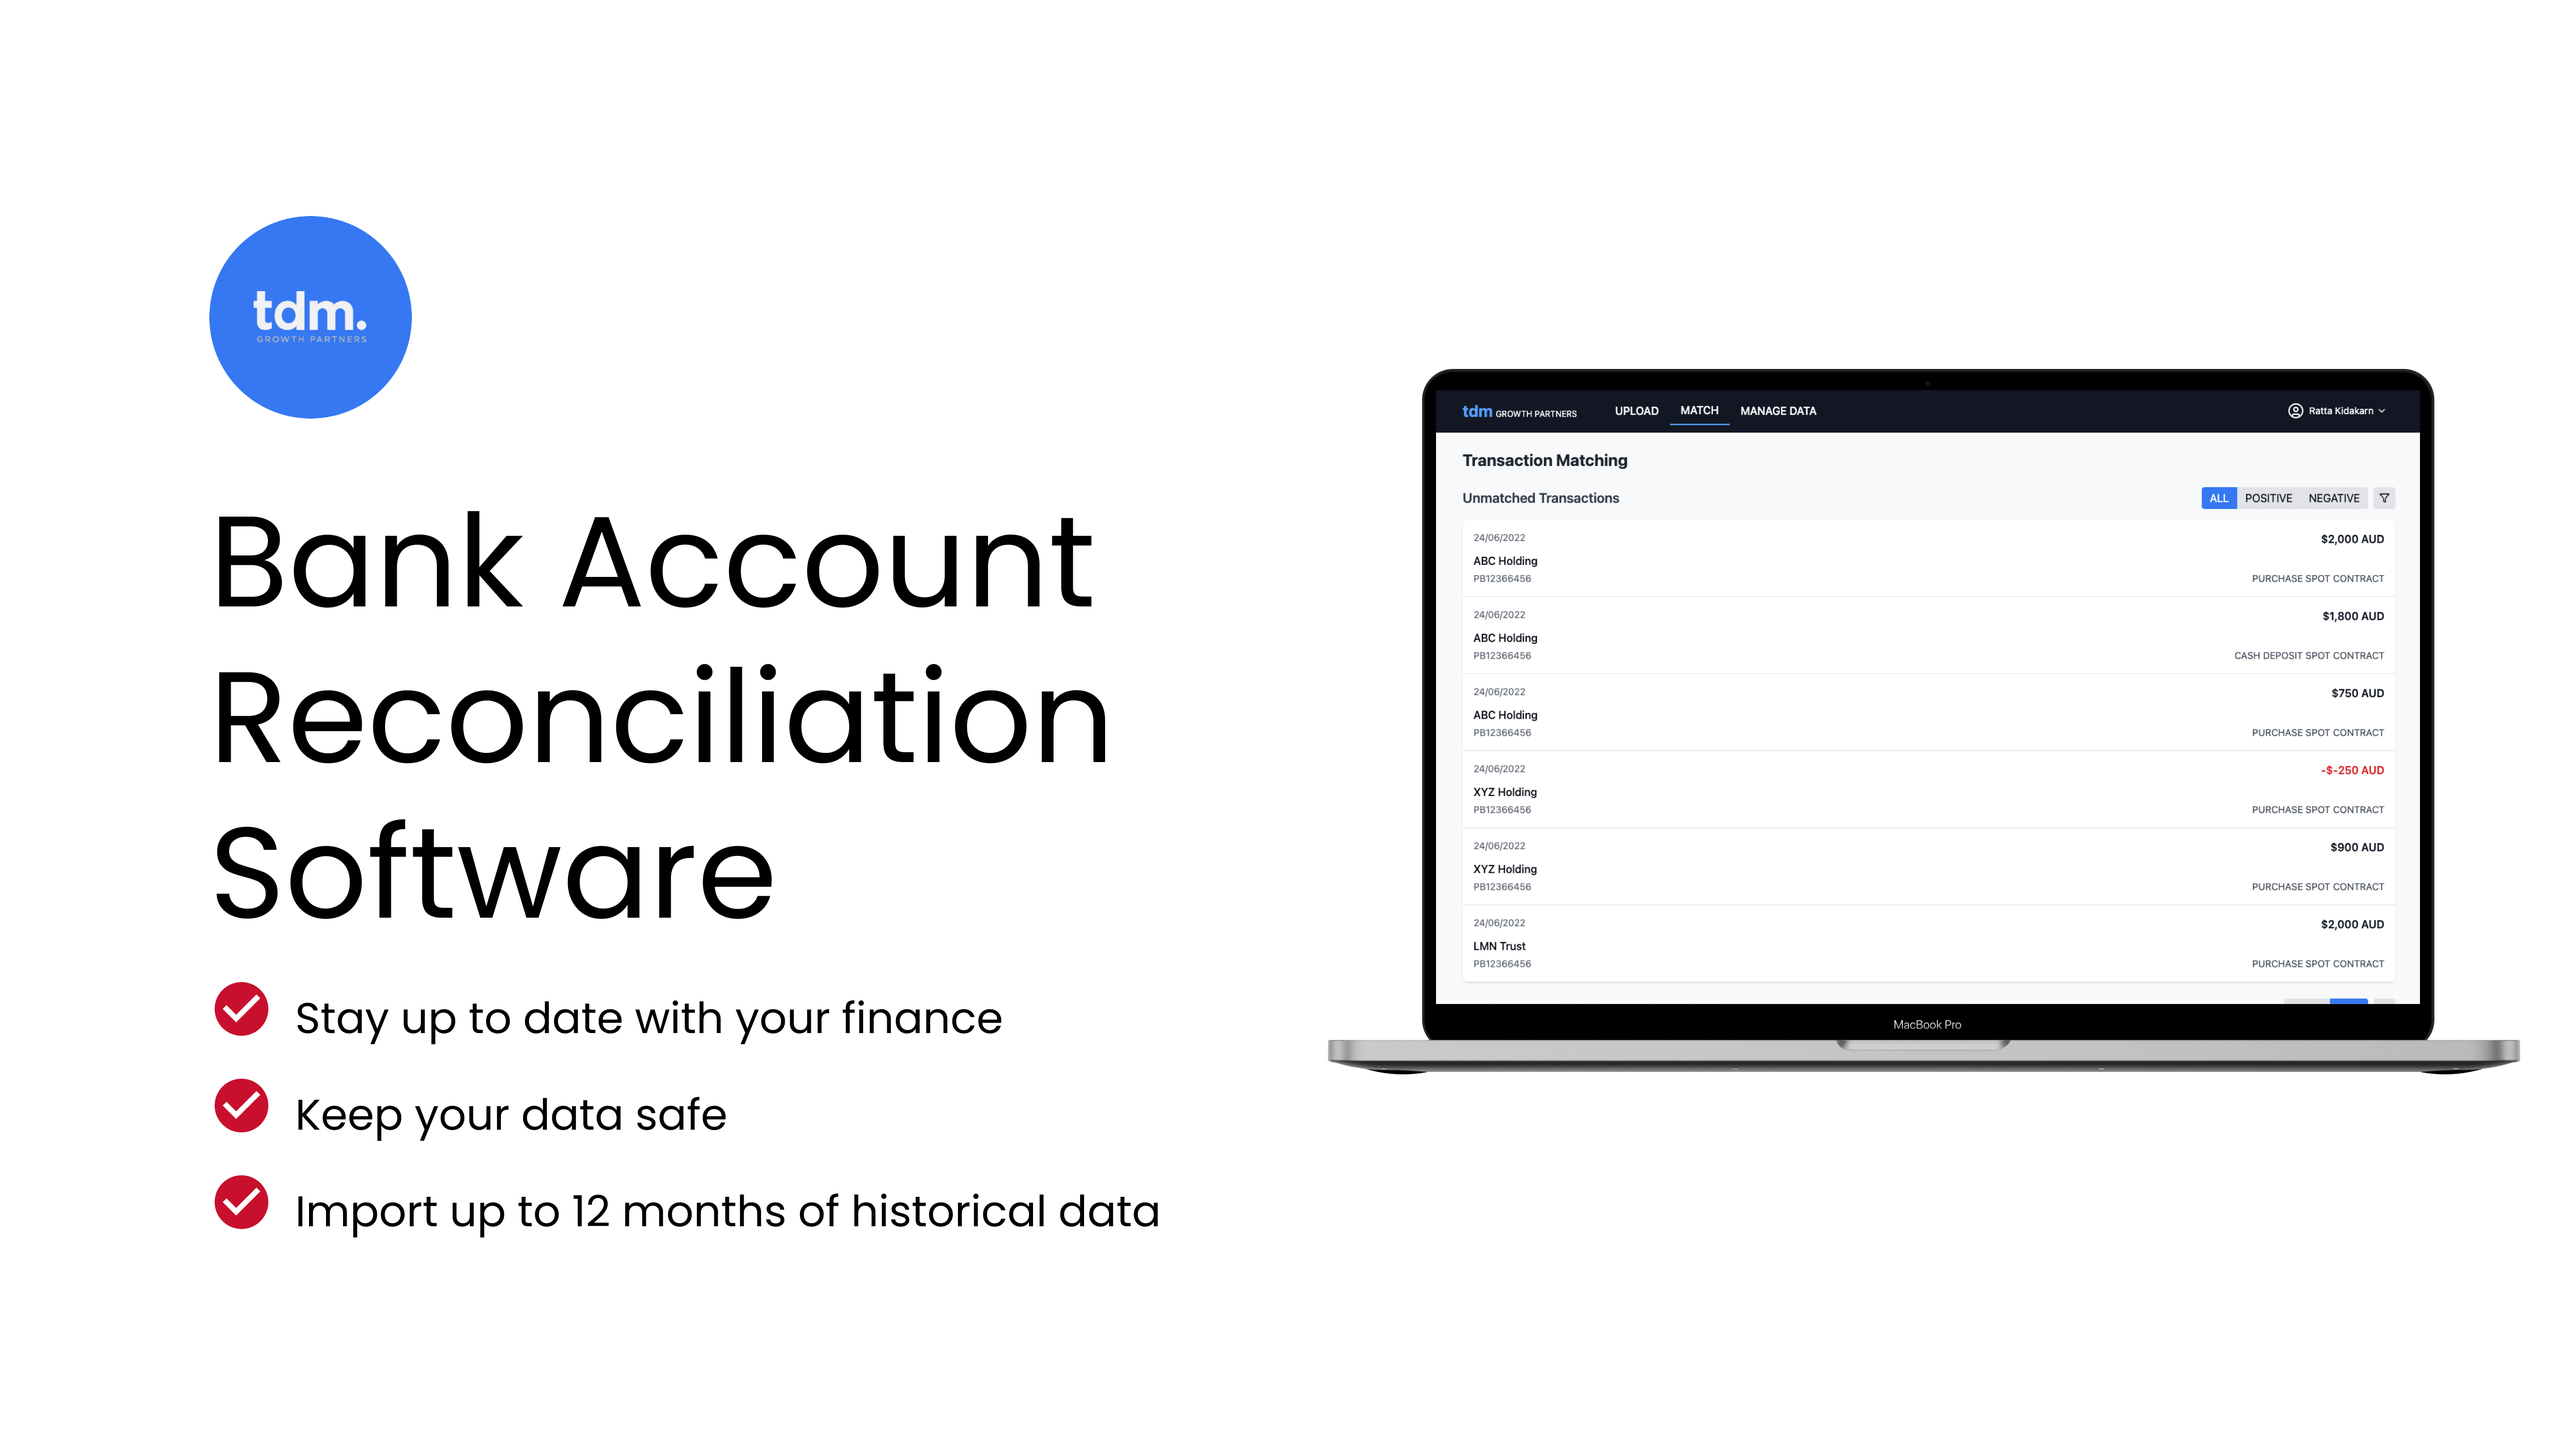
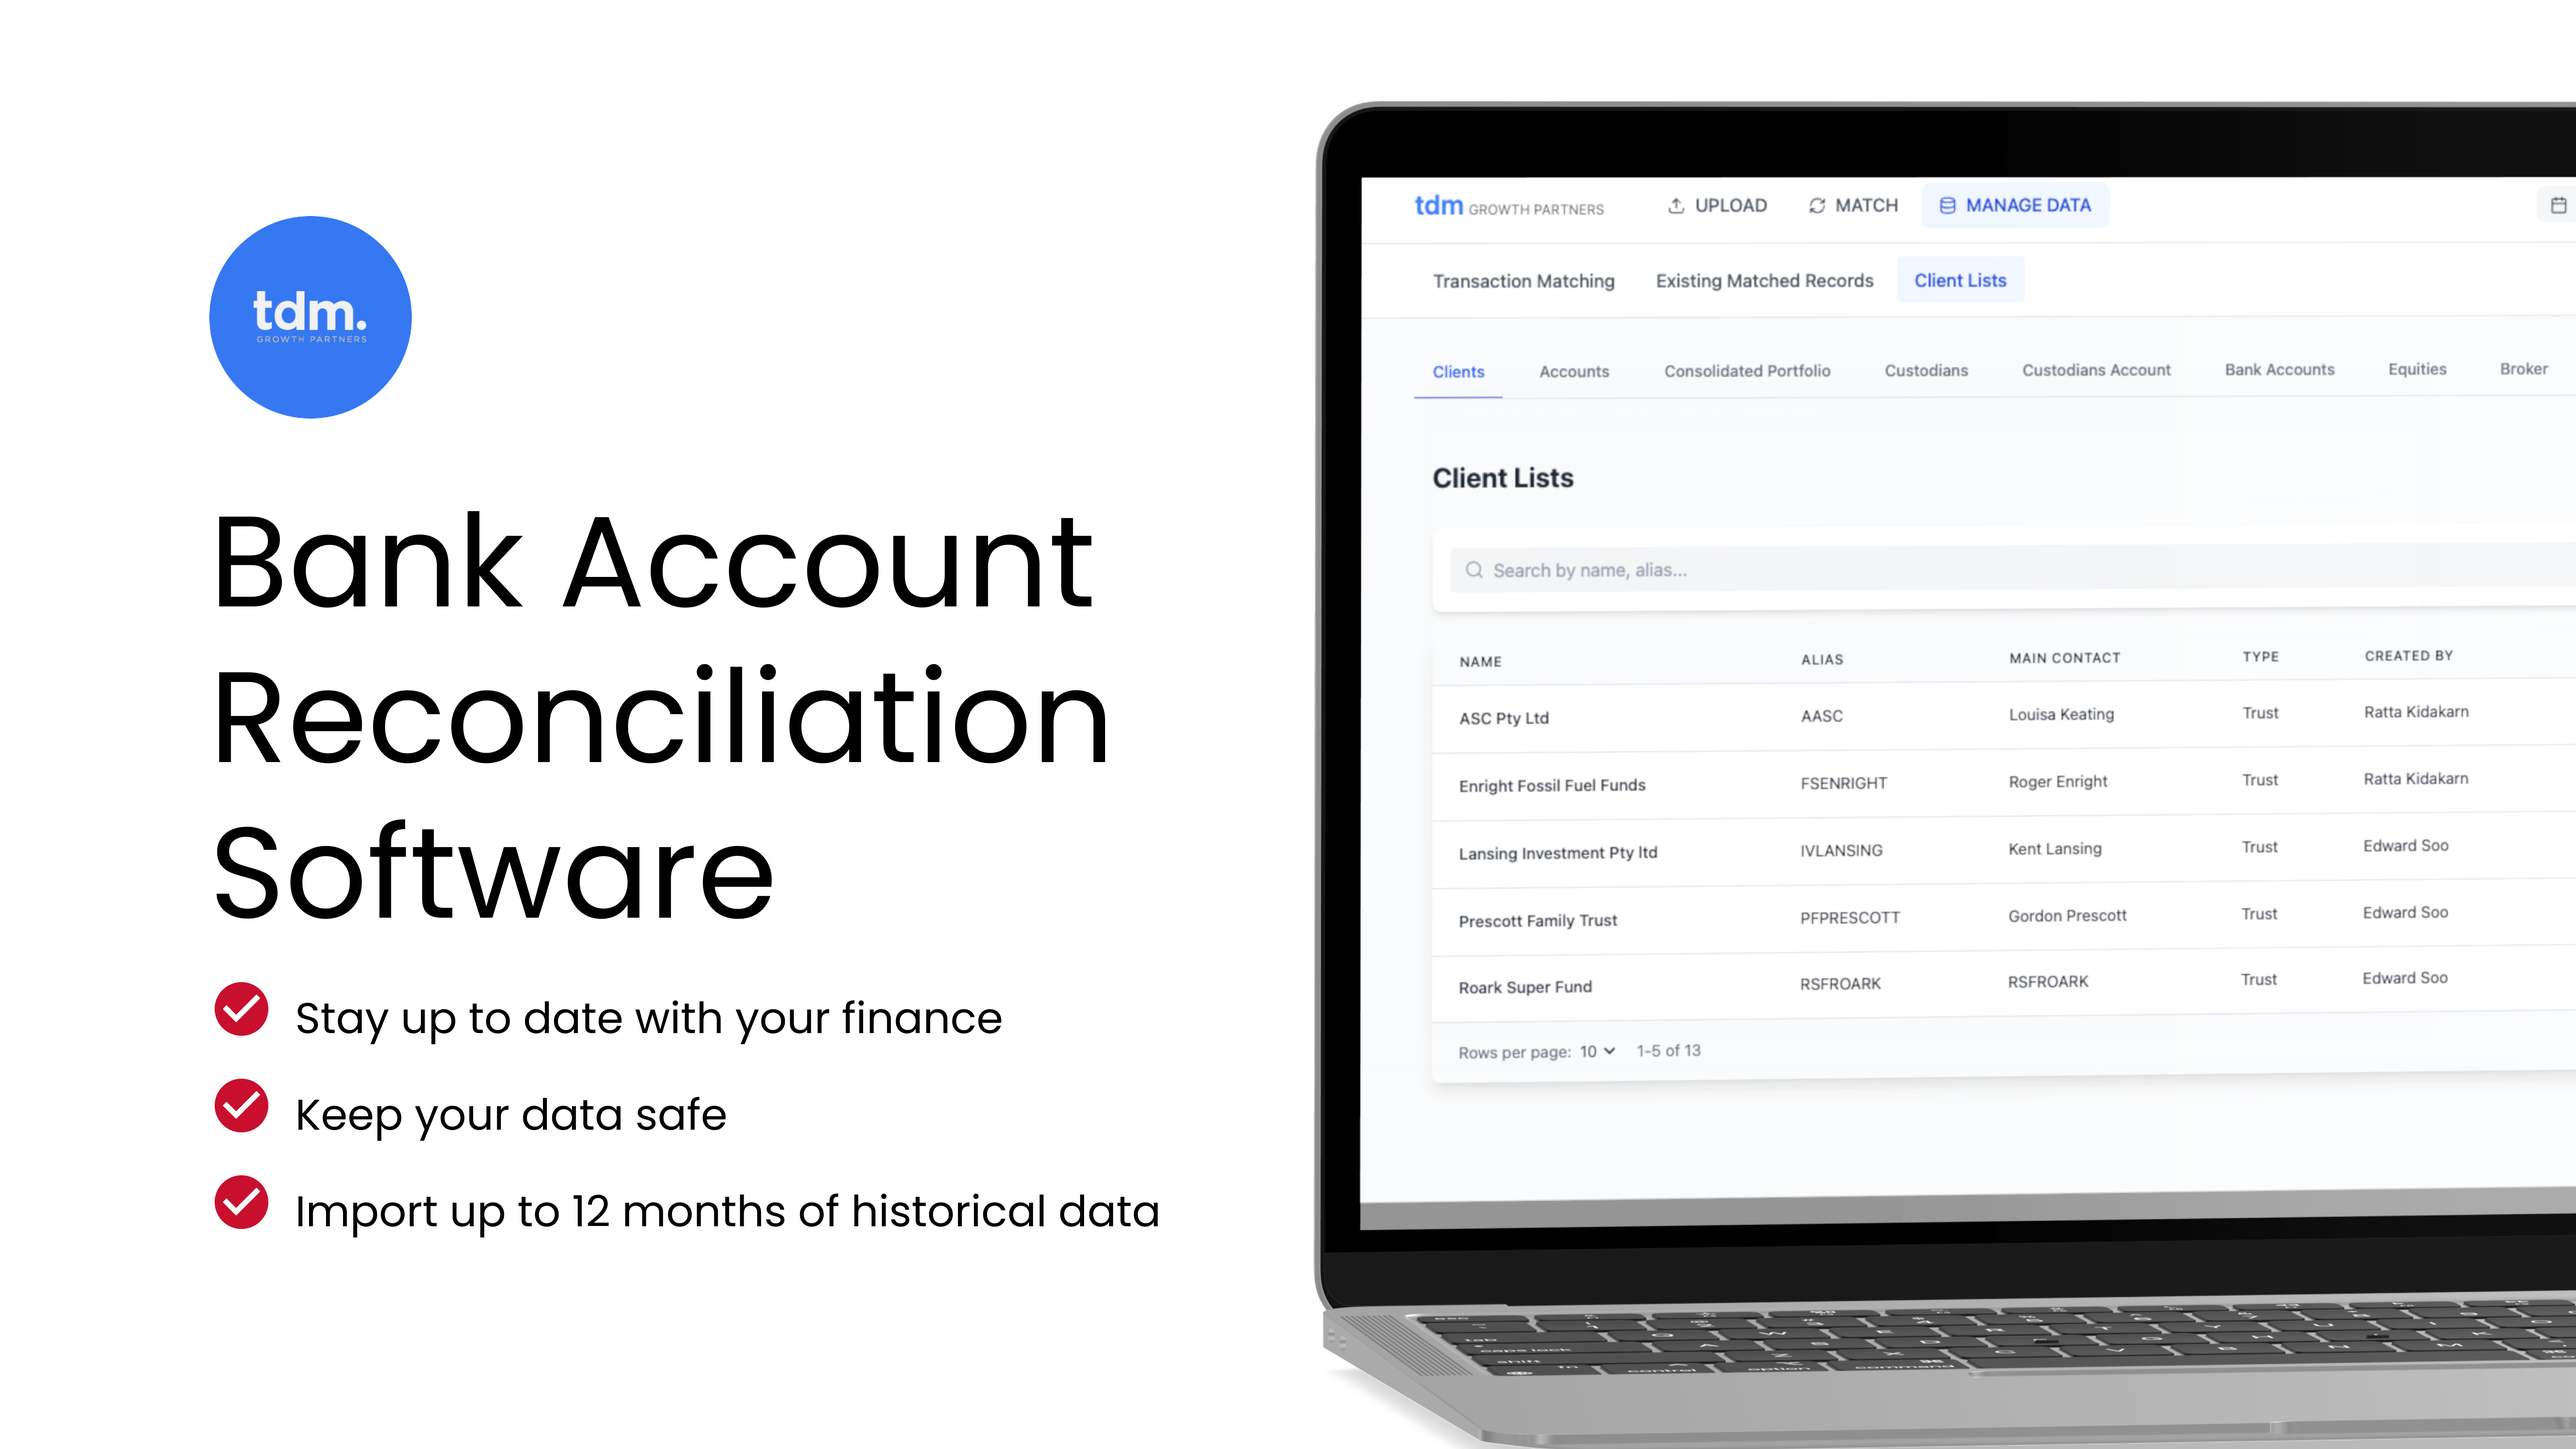
feat: Add solution images for TDM case study

diff --git a/pages/case-studies/intro-tdm-case-study.html b/pages/case-studies/intro-tdm-case-study.html
@@ -1342,21 +1342,42 @@ With this new system, staff can now automate transaction coding, compare balance
             <div class="solution-showcase" style="display: grid; grid-template-columns: 1fr; gap: 20px; background-color: white;">
                 <div class="solution-card fade-in" style="box-shadow: none; background: none;">
                     <div class="solution-card-image" style="height: auto; box-shadow: none; background: none;">
-                        <img src="../../assets/images/tdm-solution-01.png" alt="New Homepage Design" style="width: 100%; height: auto; box-shadow: none; filter: none;">
+                        <img src="../../assets/images/tdm-solution-1.png" alt="New Homepage Design" style="width: 100%; height: auto; box-shadow: none; filter: none;">
                     </div>
                 </div>
             </div>
             <div class="solution-showcase" style="display: grid; grid-template-columns: 1fr; gap: 20px; background-color: white;">
                 <div class="solution-card fade-in" style="box-shadow: none; background: none;">
                     <div class="solution-card-image" style="height: auto; box-shadow: none; background: none;">
-                        <img src="../../assets/images/tdm-solution-02.png" alt="New Homepage Design" style="width: 100%; height: auto; box-shadow: none; filter: none;">
+                        <img src="../../assets/images/tdm-solution-2.png" alt="New Homepage Design" style="width: 100%; height: auto; box-shadow: none; filter: none;">
                     </div>
                 </div>
             </div>
             <div class="solution-showcase" style="display: grid; grid-template-columns: 1fr; gap: 20px; background-color: white;">
                 <div class="solution-card fade-in" style="box-shadow: none; background: none;">
                     <div class="solution-card-image" style="height: auto; box-shadow: none; background: none;">
-                        <img src="../../assets/images/tdm-solution-03.png" alt="New Homepage Design" style="width: 100%; height: auto; box-shadow: none; filter: none;">
+                        <img src="../../assets/images/tdm-solution-3.png" alt="New Homepage Design" style="width: 100%; height: auto; box-shadow: none; filter: none;">
+                    </div>
+                </div>
+            </div>
+            <div class="solution-showcase" style="display: grid; grid-template-columns: 1fr; gap: 20px; background-color: white;">
+                <div class="solution-card fade-in" style="box-shadow: none; background: none;">
+                    <div class="solution-card-image" style="height: auto; box-shadow: none; background: none;">
+                        <img src="../../assets/images/tdm-solution-4.png" alt="New Homepage Design" style="width: 100%; height: auto; box-shadow: none; filter: none;">
+                    </div>
+                </div>
+            </div>
+            <div class="solution-showcase" style="display: grid; grid-template-columns: 1fr; gap: 20px; background-color: white;">
+                <div class="solution-card fade-in" style="box-shadow: none; background: none;">
+                    <div class="solution-card-image" style="height: auto; box-shadow: none; background: none;">
+                        <img src="../../assets/images/tdm-solution-5.png" alt="New Homepage Design" style="width: 100%; height: auto; box-shadow: none; filter: none;">
+                    </div>
+                </div>
+            </div>
+            <div class="solution-showcase" style="display: grid; grid-template-columns: 1fr; gap: 20px; background-color: white;">
+                <div class="solution-card fade-in" style="box-shadow: none; background: none;">
+                    <div class="solution-card-image" style="height: auto; box-shadow: none; background: none;">
+                        <img src="../../assets/images/tdm-solution-6.png" alt="New Homepage Design" style="width: 100%; height: auto; box-shadow: none; filter: none;">
                     </div>
                 </div>
             </div>
